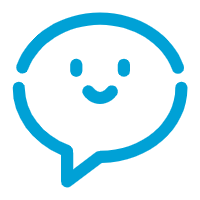
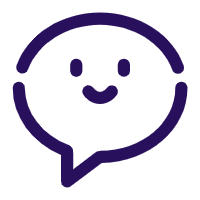
更换主题色

diff --git a/config/base/config-info.js b/config/base/config-info.js
@@ -6,14 +6,14 @@ const configInfo = {
 	//基础url
 	//#ifdef APP-PLUS
 		//app端绝对不可以是localhost或者127.0.0.1
-		baseUrl: 'http://192.168.137.198:9090',
+		baseUrl: 'http://1.116.67.83:9090',
 	//#endif
 	//#ifdef H5
 		baseUrl: "/api",
 	//#endif
 	
 	//websocket的url
-	wsUrl: "ws://192.168.137.198:9090/chat",
+	wsUrl: "ws://1.116.67.83:9090/chat",
 	
 	//需要token的接口前缀
 	authorityPrefix: "/res/",

diff --git a/common/css/style.scss b/common/css/style.scss
@@ -1,8 +1,8 @@
 //主色调
-$global-primary: #00a1d6 !default;
+$global-primary: #29105D !default;
 
 //次色调
-$global-minor: #9efeff !default;
+$global-minor: #9C94FF !default;
 
 //辅色调
 $global-general: #F7F7F7 !default;
